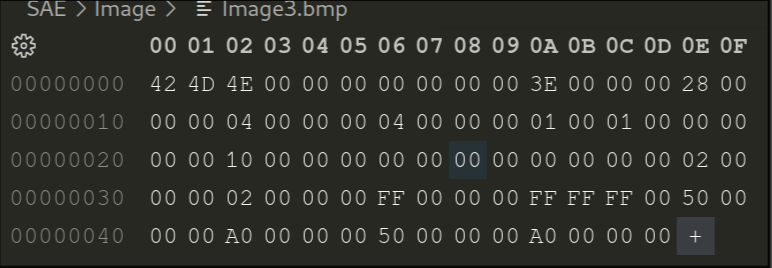
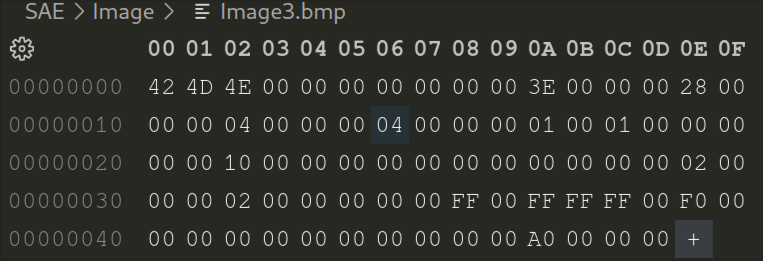
j'ai compriiiiiiiiis

Changed region(s): [[0.0, 0.0, 1.0, 1.0], [0.0, 0.1226, 0.0603, 0.2452]]

diff --git a/SAE/Image/rapport.md b/SAE/Image/rapport.md
@@ -51,27 +51,54 @@ Voici le code de l'image convertie
 Sur ce code nous pouvons voir que la taille de l'image est toujours à l'adresse 0x02 sur octets. Ici la valeur à cette adresse est de 66 soit 102 en décimal. On retrouve bien la taille calculée précedemment.  
 On remarque aussi qu'un autre en tête a été ajouté à partir de 18 00 à l'adresse 0x1C.
 1. Il y a toujours 24 bits par pixels (18 = 24 en décimal)
-2. La taille des données pixels est de 48 octets.Cette valeur s'obtient grace à la valeur 30 à l'adresse 0x22 qui est la taille des données pixels de l'image. 30 = 48 en décimal soit 48 octets de pixels
+
+2. La taille des données pixels est de 48 octets.Cette valeur s'obtient grace à la valeur 30 à l'adresse 0x22 qui est la taille des données pixels de l'image. 30 = 48 en décimal soit 48 octets de pixels.
+
 3. La compression de l'image est indiquée à l'adresse 0x1E, cette compression est codée sur 4 octets. Dans notre cas à l'adresse 0x1E il y a que des zéros, l'image n'est donc pas compréssée.
+
 4. Non le codage des pixels n'a pas changé, on code toujours le pixels sur 3 octets en little endian.
 
 ## A.4
 En convertissant l'image on obtient ce code :
 ![Image](/SAE/Image/CodeImage2.png)
 1. Il y a 1 bit par pixel. ce nombre ce trouve à l'adresse 0x1C.
+
 2. La taille des données pixels se trouve à l'adresse 0x22. A cette adresse on trouve le nombre 10 qui en décimal nous donne 16. La taille des données pixels est donc de 16 octets.
+
 3. La compression utilisée est indiquée à l'adresse 0x1E. A cette adresse on ne trouve que des zéros donc il n'y a pas de compréssion utilisée pour cette image.
-4. 
+
+4.
+
 5. la palette de couleur est composée de deux couleurs. On trouve cette information à l'adresse 0x2E ou l'on trouve 2 en hexadécimal soit 2 en décimal donc 2 couleurs utilisées pour la palette.
-6. Oui le codage des pixels a changé. Dans ce code, chaque pixel est représenté par un seul octet alors que dans les images précédentes on le codaient sur 3 octets
+
+6. Oui le codage des pixels a changé. Dans ce code, chaque pixel est représenté par 1 seul bit alors que dans es images précédente on utilisait 24 bits pour représenter un pixel.
+
 7. Avec ce code :
 
-    ![Image](/SAE/Image/CodeImage3.png)
+    ![Image](/SAE/Image/CodeImageBleue.png)
     on obtient cette image :
 
     ![Image](/SAE/Image/ScreenShotImageBleue.png)
 
     Pour obtenir cette image il faut modifier la valeur d'une des deux couleurs de notre palette, ici c'est le rouge qu'il fallait changer. Il fallait donc remplacer le 00 00 FF 00 (qui correspond au rouge avec un octet réservé à la fin) à l'adresse 0x36 et mettre FF 00 00 00 pour avoir du bleu.
+
 8. Avec ce code : 
 
-    ![Image]($)
+    ![Image](/SAE/Image/CodeImageBleueInversee.png)
+
+    on obtient cette image :
+
+    ![Image](/SAE/Image/ScreenShotImageBleueInversee.png)
+
+    Dans ce code comme les pixels sont codés sur 1 seul bit et qu'il n'y a que deux couleurs dans la palette, on peut en déduire que le 0 correspond au bleu et le 1 au blanc. Si on regarde pour les A0 dans les données pixels, ils donnent en binaire 1010 0000 soit en big endian : 0000 1010 ce qui nous donne blanc, bleu, blanc, bleu. Pour les 50, on a en binaire 0101 0000 qui donne en big endian 0000 0101 : bleu, blanc, bleu, blanc. En faisaint cela 4fois on retrouve le patern du damier précédent. Pour l'inverser, il suffisait de seulement changer les 50 en A0 et les A0 en 50. 
+
+9. Avec ce code :
+    ![Image](/SAE/Image/CodeImage3.png)
+
+    on obtient cette image : 
+
+    ![Image](/SAE/Image/ScreenShotImage3.png)
+
+    Pour ce code, il a fallu remettre le rouge dans la palette de couleur avec 00 00 FF 00 à l'adresse 0x36. Pour la ligne de pixel blancs, il a fallu mettre F0 en hexa. En effet une ligne de pixels blanc correspond à une suite de 1 en binaire : 1111 qui en little endian donne 1111 0000 et en hexa donne F0. Ensuite, le 0 correspondant au rouge en binaire, il a fallu laisser les octets à 0 sur deux lignes pour avoir les deux lignes de pixels rouges sur l'image. Enfin pour la dernière ligne, il fallait alterner entre deux couleur (1 sur 2) comme dans la question précédente. Il fallait donc coder cette suite en binaire : 1010 soit blanc, rouge, blanc, rouge. En little endian cela donne 0000 1010 qui donne A0 en hexa.
+
+11.  
